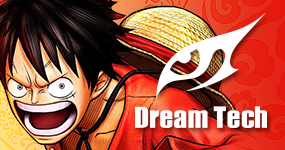
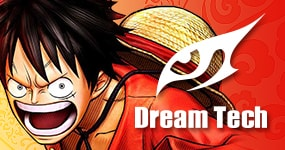
1.壓縮圖檔 2.增加menu Hover效果

diff --git a/css/style.css b/css/style.css
@@ -95,11 +95,35 @@ body {
 	display: inline-block;
 	height: 35px;
 	line-height: 34px;
+	text-align: center;
 }
 #menu .navi li a {
 	color: #fff;
 	font-size: 16px;
 	text-decoration: none;
+	display: block;
+	transform: perspective(1px) translateZ(0);
+	position: relative;
+    overflow: hidden;
+}
+#menu .navi li a:before {
+    content: "";
+    position: absolute;
+    z-index: -1;
+    left: 0;
+    right: 100%;
+    bottom: 0;
+    background: #2098D1;
+    height: 2px;
+    -webkit-transition-property: right;
+    transition-property: right;
+    -webkit-transition-duration: 0.3s;
+    transition-duration: 0.3s;
+    -webkit-transition-timing-function: ease-out;
+    transition-timing-function: ease-out;
+}
+#menu .navi li a:hover:before {
+    right: 0;
 }
 
 /*===slider===*/
@@ -241,7 +265,7 @@ body {
     -o-transition: all 0.35s ease;
     transition: all 0.35s ease;
 }
-#company .companyCol .companyItem i:hover:after {
+#company .companyCol .companyItem:hover i:after {
 	filter: alpha(opacity=100);
     -khtml-opacity: 1;
     -moz-opacity: 1;
@@ -299,7 +323,7 @@ body {
 	display: block;
 	position: absolute;
 	bottom: 50px;
-	border: 1px solid #5b6882;
+	border: 1px dotted #5b6882;
 	padding: 12px;
 }
 #mobile .qrcode span {
@@ -351,4 +375,7 @@ body {
 }
 #footer .footer_link a:hover {
 	color: #0faaf0;
+}
+#footer .copyright {
+	color: #fff;
 }

diff --git a/index.html b/index.html
@@ -149,6 +149,7 @@
 				<a href="">推广会员</a>
 				<a href="">联系我们</a>
 			</div>
+			<p class="copyright">© 2017 9win All rights reserved.</p>
 		</div>
 	</div>
 
